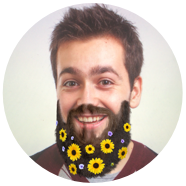
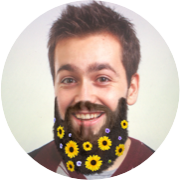
thumbs size changed to 180*180

diff --git a/index.html b/index.html
@@ -8,19 +8,17 @@
   <link rel="stylesheet" href="css/style.css">
   <link rel="stylesheet" type="text/css" href="//cdn.jsdelivr.net/npm/slick-carousel@1.8.1/slick/slick.css" />
   <title>DeepAR</title>
-
 </head>
 
 <body>
-
   <canvas class="deepar" id="deepar-canvas" oncontextmenu="event.preventDefault()"></canvas>
   <div id="loader-wrapper">
-    <span class="loader"></span></span>
+    <span class="loader"></span>
   </div>
 
   <div class="effect-carousel">
-    <!-- <div><img class="thumb" src="thumbs/galaxy.png"></div> -->
     <div><img class="thumb" src="thumbs/eye_color_final_mask.png"></div>
+    <div><img class="thumb" src="thumbs/galaxy.png"></div>
     <div><img class="thumb" src="thumbs/aviators.png"></div>
     <div><img class="thumb" src="thumbs/beard.png"></div>
     <div><img class="thumb" src="thumbs/dalmatian.png"></div>
@@ -29,7 +27,7 @@
     <div><img class="thumb" src="thumbs/lion.png"></div>
     <div><img class="thumb" src="thumbs/teddy_cigar.png"></div>
     <div><img class="thumb" src="thumbs/glasses-test.png"></div>
-    <div><img class="thumb" src="thumbs/glasses-test.png"></div>
+    <div><img class="thumb" src="thumbs/hair_colored.png"></div>
   </div>
 
   <script type="text/javascript" src="//code.jquery.com/jquery-1.11.0.min.js"></script>

diff --git a/js/main.js b/js/main.js
@@ -119,9 +119,8 @@ $(document).ready(function () {
   });
 
   var effects = [
-    // './effects/background_segmentation',
-    // './effects/naruto',
     './effects/eye_color_final_mask',
+    './effects/background_segmentation',
     './effects/aviators',
     './effects/beard',
     './effects/dalmatian',
